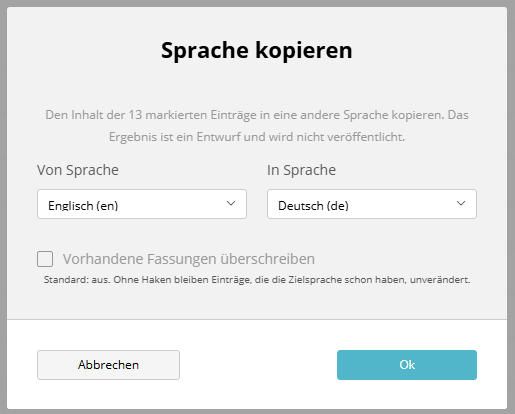
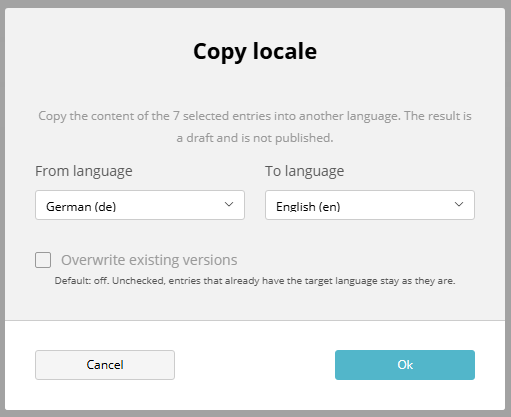
docs update

diff --git a/README.de.md b/README.de.md
@@ -10,7 +10,7 @@ Sammelaktionen für Listen im Sulu-Admin: Zeilen markieren, dann in einem Rutsch
 zurückziehen, eine Sprache kopieren oder löschen.
 Artikel (alle Gruppen), Schnipsel, [Testimonials](https://github.com/manuxi/SuluTestimonialsBundle) und [Events](https://github.com/manuxi/SuluEventBundle) funktionieren ohne weiteres mit allen vier Aktionen; andere Bundles bringen ihren eigenen Handler mit.
 
-![Menü Massen-Aktionen in einer Liste](docs/img/bulk-actions-in-list.png)
+![Menü Massen-Aktionen in einer Liste](docs/img/bulk-actions-in-list.de.png)
 
 Dies ist der Branch `3.x` für Sulu 3.0. Der Branch `2.x` ist die Version für Sulu 2.6.
 
@@ -44,6 +44,8 @@ Zwei Stufen, damit niemand gesammelt tun kann, was er einzeln nicht darf:
    bei Schnipseln `sulu.snippet.snippets`, bei Testimonials und Events deren eigene Kontexte. Sprache kopieren prüft „Bearbeiten“ in der Zielsprache. Einträge ohne
    Berechtigung werden übersprungen und gemeldet. Das Menü zeigt nur die Aktionen, die in dieser Liste erlaubt sind
    (z. B. nur im Blog-Tab, wenn die Rolle das Recht für Blog hat).
+
+![Permissions](docs/img/permissions.en.png)
 
 Neue Artikelgruppen brauchen nichts: Ihre Kontexte stehen schon im Rollenformular.
 

diff --git a/README.md b/README.md
@@ -9,7 +9,7 @@
 Bulk actions for lists in the Sulu admin: mark rows, then publish, unpublish, copy a locale or delete them in one go.
 Articles (all groups), snippets, [testimonials](https://github.com/manuxi/SuluTestimonialsBundle) and [events](https://github.com/manuxi/SuluEventBundle) work out of the box with all four actions; other bundles bring their own handler.
 
-![Bulk actions menu in a list](docs/img/bulk-actions-in-list.png)
+![Bulk actions menu in a list](docs/img/bulk-actions-in-list.en.png)
 
 This is the `3.x` branch for Sulu 3.0. The `2.x` branch is the version for Sulu 2.6.
 
@@ -42,6 +42,8 @@ Two levels, so nobody can do in bulk what they may not do one by one:
    for snippets `sulu.snippet.snippets`, for testimonials and events their own contexts. Copy locale checks "Edit" in the target language. Entries without permission
    are skipped and reported. The dropdown only shows the actions the user may use in that list (for example only in the
    Blog tab if they have the right for Blog).
+
+![Permissions](docs/img/permissions.en.png)
 
 New article groups need nothing: their contexts already exist in the role form.
 
